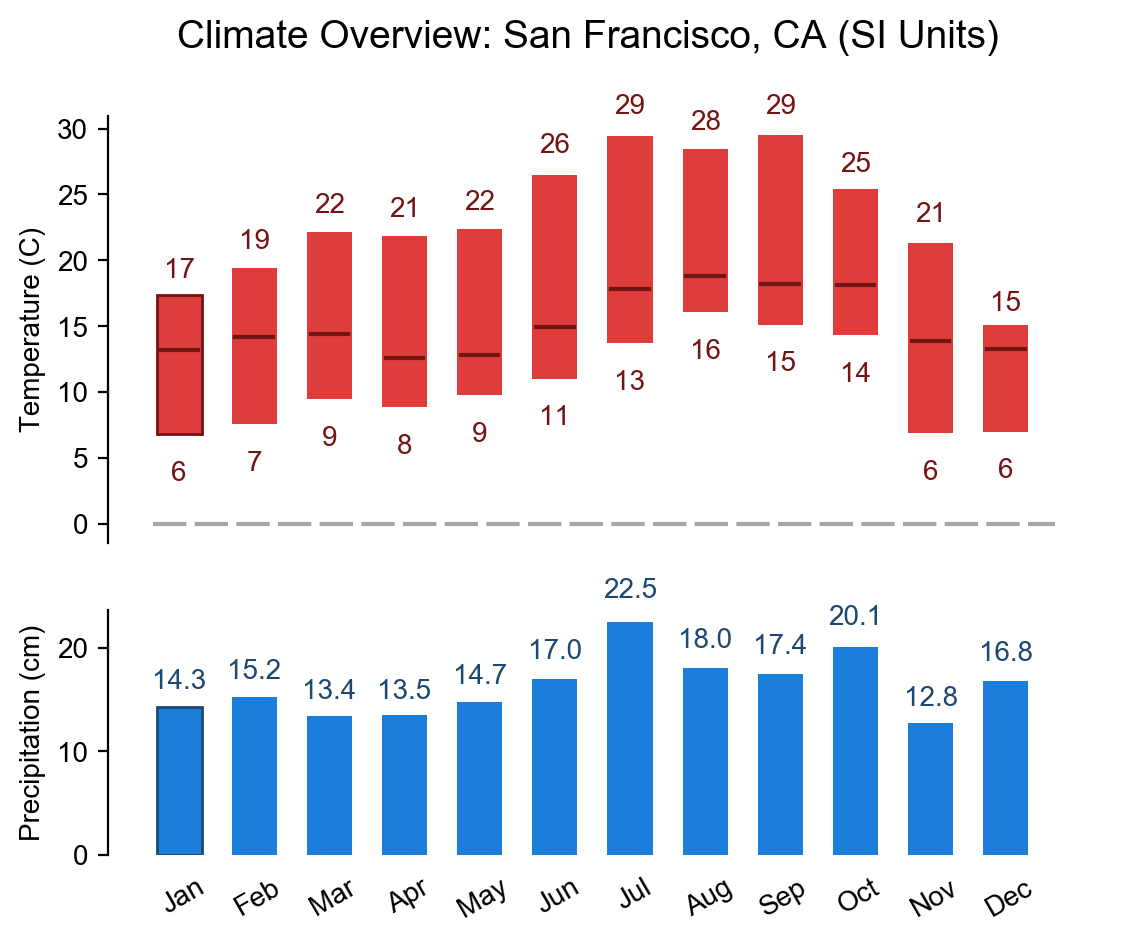
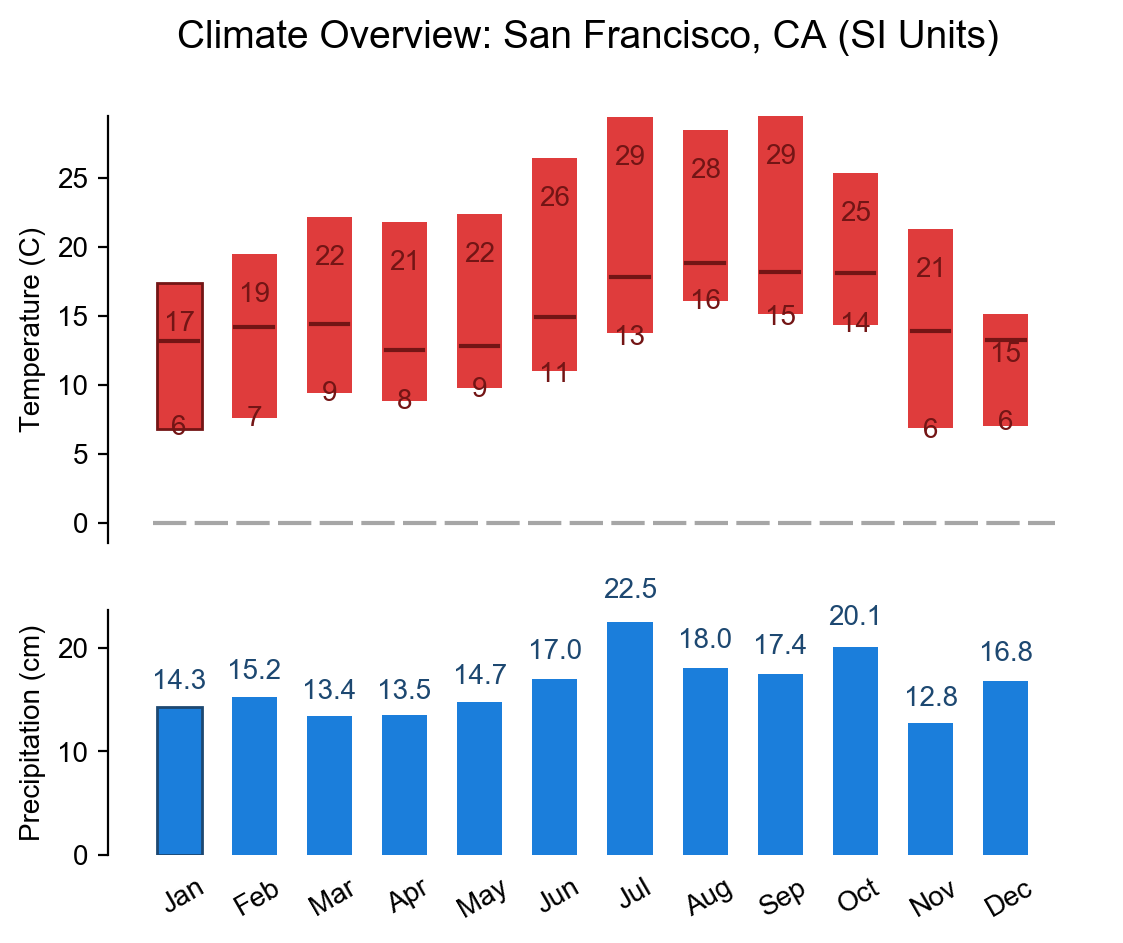
updated readme with how much time jobs ran for, and updated climate chart with putting maxtemp in first column and mintemp in second column

diff --git a/README.md b/README.md
@@ -1,20 +1,16 @@
 # Project 2 - Spatiotemporal Analysis with MapReduce
 
-This repository includes starter files and a sample directory structure. You are welcome to use it or come up with your own project structure.
-
 Project Specification: https://www.cs.usfca.edu/~mmalensek/courses/cs686/projects/project-2.html
 
 # Deliverables
-
-The project specification defines several questions that you will answer with MapReduce jobs. You should edit this document (README.md) with your answers as you find them, including figures, references, etc. This will also serve as a way of tracking your progress through the milestones.
 
 ## Deliverable I
 
 ###### For the 30% dataset provided :
 
-###### No of records in the data set - 108000000
+###### No of records in the data set - 108000000 - (1)3min 46sec
 
-###### There are only three geohashes where snow depth is greater than zero for entire year 
+###### There are only three geohashes where snow depth is greater than zero for entire year - (1)10min 17sec(2)23sec
 
 All three places are in canada:
 
@@ -22,7 +18,7 @@ c41xurr50ypb    1.4427822 (Canada near to Mt. Edziza Provincial Park near to Gul
 c1p5fmbjmkrz    0.85555875 (Canada near to Homathko river -Tatlayoko protected area)</br>
 c1gyqex11wpb    0.5148892 (Canada near to Mount Pattullo)</br>
 
-###### Hottest temperature as per dataset is observed at 
+###### Hottest temperature as per dataset is observed at  - (1)9min 32sec (2)21sec
 
 d5f0jqerq27b    Sun Aug 23 11:00:00 PDT 2015,330.67432(134°F)</br>
 
@@ -32,7 +28,7 @@ created by average highs of 34°C/93°F in the heat of the day and average lows 
 June is the hottest month in Cancun with an average temperature of 28°C (82°F).
 Coldest is January at 23°C (73°F) with the most daily sunshine hours at 11 in August.
 
-###### Most frequently struck by lightning 
+###### Most frequently struck by lightning (1)12min 10sec (2)23sec (3)20sec
 
 Everything near to Mexico
 
@@ -43,17 +39,17 @@ d7mkkfvu34up    135 Dominian Republic</br>
 9wkkbht8spkp    87</br>
 941zjqq2vtxu    84</br>
 
-###### Driest Month in Bay Area during 2015
+###### Driest Month in Bay Area during 2015 - (1)10min
 
 ###### Bay Area Geohash prefixes
 
-![alt text](images/BayAreaDataPoints.png "List of Bay Area Geohash prefixes")
+![alt tag](images/BayAreaDataPoints.png "List of Bay Area Geohash prefixes")
 
-![alt text](images/DriestMonth.png "Avg precipitation values in Bay Area 2015")
+![alt tag](images/DriestMonth.png "Avg precipitation values in Bay Area 2015")
 
 From the histogram, we can say that April is driest month in Bay Area
 
-###### Personalized Travel Itinerary
+###### Personalized Travel Itinerary - (1)6min 44sec
 
 My travel itinerary includes below 5 regions:
 1. Arizona
@@ -79,9 +75,9 @@ Favourable months to visit them would be:
 
 ###### NorthAmerica Geohash prefixes
 
-![alt text](images/NorthAmericaDataPoints.png "List of North America Geohash prefixes")<!-- .element height="10%" width="10%" -->
+![alt tag](images/NorthAmericaDataPoints.png "List of North America Geohash prefixes")<!-- .element height="10%" width="10%" -->
 
-###### Top 3 geohashes suitable for solar farms in North America
+###### Top 3 geohashes suitable for solar farms in North America (1)27min 55sec (2)25sec
 
 Places with minimum cloud cover are considered for having solar farms<br/>
 c9vek55pkrxb(Canada Saskatchewan)      -2.04082295E17<br/>
@@ -106,7 +102,7 @@ Looks like Maine state is preferable for wind farms in North America<br/>
 
 ###### Top 3 geohashes suitable for both solar and wind farms in North America
 
-Features used to determine this are wind speed and cloud cover:
+Features used to determine this are wind speed and cloud cover:<br/>
 dptp9djvykeb(Michigan)                                  40.09668711334537       -7.3170994E17<br/>
 cbdgu8ssqukp(Border of North Dakota and Minnesota)      35.14385868738097       -7.3170994E17<br/>
 cd5q18brc4gz(Canada)                                    32.80954470153044       -7.3170994E17<br/>
@@ -115,9 +111,11 @@ cd5q18brc4gz(Canada)                                    32.80954470153044       
 Have written two chained jobs to find out these:
 1st job took 12mins and 2nd job took 25sec to complete 
 
-###### Climate chart for San Francisco, CA
+###### Climate chart for San Francisco, CA (1)7min
 
-![alt text](images/sanfrancisco_climate_details.png "Climate chart for San Francisco,CA")<!-- .element height="10%" width="10%" -->
+Geohash prefix for San Francisco - 9q8y
+
+![alt tag](images/sanfrancisco_climate_details.png "Climate chart for San Francisco,CA")<!-- .element height="10%" width="10%" -->
 
 
 
